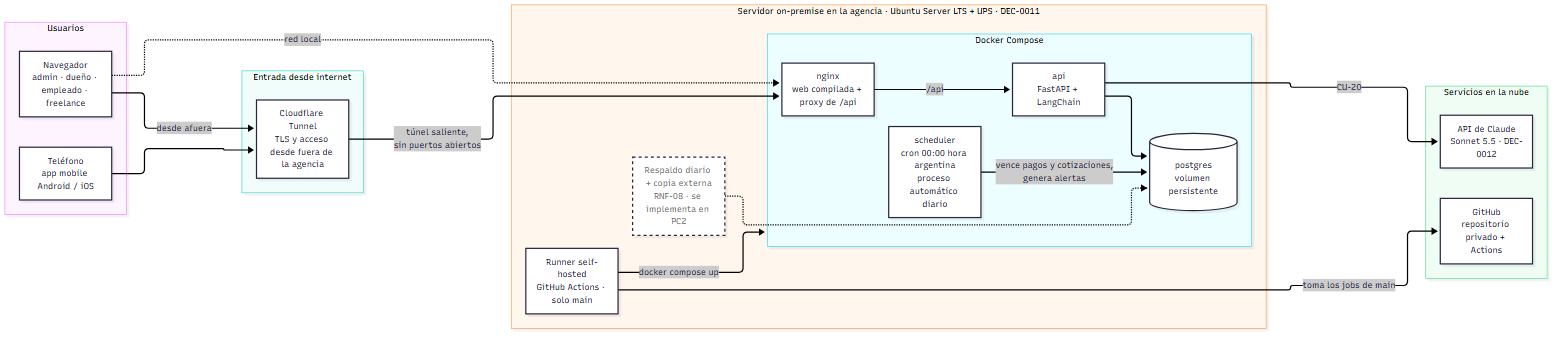
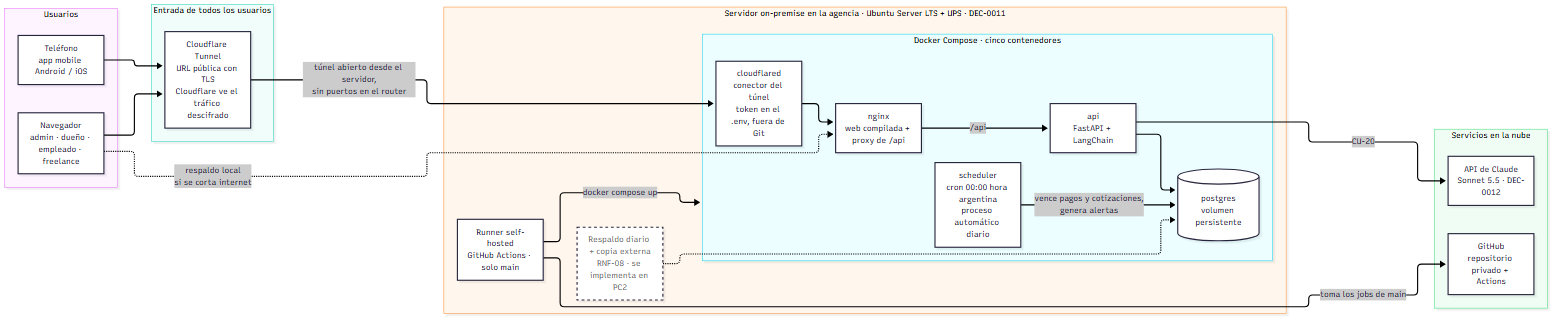
DEC-0011 y ARQ: contenedor cloudflared y acceso de todos por el túnel; DGM-ER: auditoría nullable

diff --git a/05-Diseño/Arquitectura/ARQ — Vista general.md b/05-Diseño/Arquitectura/ARQ — Vista general.md
@@ -24,13 +24,13 @@ Rumbo es una aplicación **cliente-servidor**: dos clientes (web y mobile) habla
 | **Base de datos** | PostgreSQL, con SQLAlchemy 2.0 async y Alembic | Persistencia de las 13 entidades del [[DGM-ER]]. |
 | **Proceso automático** | Contenedor con cron | Todos los días a las 00:00 vence pagos y cotizaciones y genera alertas, usando los mismos servicios que la API. |
 | **IA del producto** | LangChain + Claude Sonnet 5.5 | Solo para los borradores de contenido de CU-20 ([[DEC-0012 Modelo de IA del producto]]). |
-| **Servidor** | Ubuntu Server LTS + Docker Compose + UPS | Aloja la API, la base, el proceso automático y nginx; se accede desde afuera por Cloudflare Tunnel. |
+| **Servidor** | Ubuntu Server LTS + Docker Compose + UPS | Aloja la API, la base, el proceso automático, nginx y el conector `cloudflared`; todos los usuarios entran por Cloudflare Tunnel. |
 | **Calidad y despliegue** | GitHub Actions + runner self-hosted + Dependabot | Lint, tipos, pruebas y seguridad en cada push; despliega solo si el pipeline pasa en `main`. |
 
 La arquitectura se describe en tres vistas: **despliegue** (dónde corre cada pieza), **componentes del monorepo** (cómo se organiza el código) y **vista lógica del backend** (las tres capas de la API y sus módulos).
 
 ## Vista de despliegue
-Dónde corre cada pieza en producción, según [[DEC-0011 Infraestructura de despliegue on-premise]]. Todo el backend vive en un servidor dentro de la agencia; desde afuera se entra solo por Cloudflare Tunnel, que abre la conexión desde el servidor hacia la nube, así que el router no expone ningún puerto. La caja punteada es lo que se difiere a PC2.
+Dónde corre cada pieza en producción, según [[DEC-0011 Infraestructura de despliegue on-premise]]. Todo el backend vive en un servidor dentro de la agencia. **Todos los usuarios**, también los de la red local, entran por la URL de Cloudflare Tunnel: el contenedor `cloudflared` abre la conexión desde el servidor hacia la nube, así que el router no expone ningún puerto. La flecha punteada desde el navegador es la entrada local directa, que queda solo como respaldo si se corta internet; la caja punteada es lo que se difiere a PC2.
 
 ```mermaid
 %%{init: {"flowchart": {"defaultRenderer": "elk"}} }%%
@@ -40,12 +40,13 @@ flowchart LR
       Tel["Teléfono<br/>app mobile Android / iOS"]
     end
 
-    subgraph Entrada["Entrada desde internet"]
-      CF["Cloudflare Tunnel<br/>TLS y acceso desde fuera de la agencia"]
+    subgraph Entrada["Entrada de todos los usuarios"]
+      CF["Cloudflare Tunnel<br/>URL pública con TLS<br/>Cloudflare ve el tráfico descifrado"]
     end
 
     subgraph Agencia["Servidor on-premise en la agencia · Ubuntu Server LTS + UPS · DEC-0011"]
-      subgraph Compose["Docker Compose"]
+      subgraph Compose["Docker Compose · cinco contenedores"]
+        Cfd["cloudflared<br/>conector del túnel<br/>token en el .env, fuera de Git"]
         Nginx["nginx<br/>web compilada + proxy de /api"]
         API["api<br/>FastAPI + LangChain"]
         DB[("postgres<br/>volumen persistente")]
@@ -60,10 +61,11 @@ flowchart LR
       GH["GitHub<br/>repositorio privado + Actions"]
     end
 
-    Nav -->|"desde afuera"| CF
+    Nav --> CF
     Tel --> CF
-    Nav -. "red local" .-> Nginx
-    CF -->|"túnel saliente,<br/>sin puertos abiertos"| Nginx
+    Nav -. "respaldo local<br/>si se corta internet" .-> Nginx
+    CF -->|"túnel abierto desde el servidor,<br/>sin puertos en el router"| Cfd
+    Cfd --> Nginx
     Nginx -->|"/api"| API
     API --> DB
     Sched -->|"vence pagos y cotizaciones,<br/>genera alertas"| DB
@@ -76,11 +78,12 @@ flowchart LR
     class Backup pendiente
 ```
 
-- **nginx** sirve la web de React ya compilada y deriva `/api` al backend. Es el único punto de entrada, tanto desde la red local como desde el túnel.
+- **cloudflared** es el conector de Cloudflare Tunnel: abre la conexión saliente hacia Cloudflare y le entrega el tráfico a `nginx`. Su token vive en el `.env` del servidor y nunca se guarda en Git.
+- **nginx** sirve la web de React ya compilada y deriva `/api` al backend. Recibe el tráfico del túnel, que es la entrada normal de **todos** los usuarios; la entrada directa desde la red local queda solo como respaldo si se corta internet.
 - **scheduler** ejecuta a las 00:00 el mismo código del backend como comando (`python -m rumbo.presentacion.jobs.diario`): vence pagos y cotizaciones y genera las alertas `viaje` y `recontacto` ([[DGM-ACT — Proceso automático diario]]). Es idempotente, así que correrlo dos veces no duplica nada.
 - **Runner self-hosted:** cuando el pipeline de calidad pasa en `main`, reconstruye y levanta los contenedores. Solo toma jobs de `main` del repositorio privado.
 - **App mobile:** EAS Build genera los binarios y se distribuyen de forma interna, sin tiendas; la app habla con la misma API por el túnel.
-- **Riesgos aceptados:** un corte de luz más largo que la autonomía de la UPS, o de internet en el local, deja el sistema inaccesible desde afuera (RNF-13).
+- **Riesgos aceptados:** un corte de luz más largo que la autonomía de la UPS, o de internet en el local, deja el sistema inaccesible desde afuera (RNF-13). Además, Cloudflare termina el TLS, así que ve el tráfico descifrado que pasa por el túnel.
 
 ## Vista de componentes del monorepo
 Cómo se organiza el código y qué genera cada parte, según [[DEC-0001 Stack tecnológico]].
@@ -283,4 +286,3 @@ Los once módulos (`clientes`, `oportunidades`, `viajes`, `economia`, `alertas`,
 ## Pendiente
 - **G1 · Modelo C4** (contexto, contenedores y componentes), que reutiliza estas vistas.
 - **A6 · Ratificar esta nota** en el cierre del día 2 y pasarla a `formalizado`.
-- **Acceso por Cloudflare Tunnel:** falta confirmar tres ajustes en DEC-0011 y en la vista de despliegue: el contenedor `cloudflared`, el riesgo de que Cloudflare vea el tráfico descifrado y que el acceso desde la red local también pase por el túnel.

diff --git a/05-Diseño/Decisiones/DEC-0011 Infraestructura de despliegue on-premise.md b/05-Diseño/Decisiones/DEC-0011 Infraestructura de despliegue on-premise.md
@@ -18,12 +18,14 @@ tags:: #tipo/decision #estado/formalizado #pc/pc1
 
 ## Decisión
 - **Servidor on-premise en la agencia:** una mini PC dedicada con **Ubuntu Server LTS** y una **UPS** para absorber cortes de luz breves.
-- **Ejecución con Docker Compose**, con cuatro servicios:
+- **Ejecución con Docker Compose**, con cinco servicios:
   - `nginx`: sirve la web compilada y deriva `/api` al backend;
   - `api`: FastAPI;
   - `postgres`: PostgreSQL con un volumen persistente;
-  - `scheduler`: un contenedor con **cron** que a las **00:00**, en la zona horaria `America/Argentina/Buenos_Aires`, ejecuta el proceso diario como comando del backend (por ejemplo `python -m rumbo.jobs.diario`). El proceso es **idempotente**: si corre dos veces el mismo día, no duplica alertas ni vencimientos.
-- **Acceso desde fuera de la agencia** (freelance y app mobile, RNF-14): **Cloudflare Tunnel** delante de Nginx. No abre puertos en el router, trae TLS y no depende de la IP pública del local. Su configuración **no es prioritaria** en esta etapa.
+  - `scheduler`: un contenedor con **cron** que a las **00:00**, en la zona horaria `America/Argentina/Buenos_Aires`, ejecuta el proceso diario como comando del backend (`python -m rumbo.presentacion.jobs.diario`). El proceso es **idempotente**: si corre dos veces el mismo día, no duplica alertas ni vencimientos;
+  - `cloudflared`: el conector de **Cloudflare Tunnel**. Abre la conexión saliente hacia Cloudflare y le entrega el tráfico a `nginx`. Su token vive en el `.env` del servidor y **nunca se guarda en Git**.
+- **Acceso de los usuarios por Cloudflare Tunnel** (RNF-14): **todos** los usuarios, también los que están en la red local de la agencia, entran por la URL pública del túnel. No abre puertos en el router, trae TLS y no depende de la IP pública del local. La **entrada local directa** a `nginx` queda solo como **respaldo** si se corta internet en la agencia. Su configuración **no es prioritaria** en esta etapa.
+- **Riesgo aceptado del túnel:** Cloudflare termina el TLS, así que **ve el tráfico descifrado** que pasa por el túnel. El equipo lo acepta a cambio de no exponer la red de la agencia.
 - **Despliegue:** un **runner self-hosted de GitHub Actions** instalado en el servidor. Cuando el pipeline de calidad de DEC-0001 pasa en `main`, ejecuta `docker compose up`. Condiciones: el repositorio de código es **privado** y el runner **solo ejecuta jobs de `main`**, porque un runner self-hosted en un repositorio público ejecutaría código de cualquier pull request.
 - **Los requisitos no cambian.** RNF-08 y RNF-13 expresan necesidades del negocio y se mantienen tal como están. Lo que se difiere es la implementación:
   - **Respaldo (RNF-08):** no es prioritario para el PC1; el mecanismo (volcado diario y copia externa) se define y se implementa en PC2.
@@ -45,10 +47,11 @@ El equipo prioriza no tener costo mensual y mantener el control del entorno, y a
 ## Impacto
 - [[ARQ — Vista general]]: la vista de despliegue tiene que reemplazar la caja «a definir» y sumar el `scheduler` (paso A2 del plan).
 - [[DEC-0001 Stack tecnológico]]: se cierra su pendiente de infraestructura; Nginx y el runner self-hosted quedan confirmados.
-- Riesgos aceptados: cortes de luz o de internet en la agencia; respaldo sin implementar hasta PC2.
+- Riesgos aceptados: cortes de luz o de internet en la agencia; respaldo sin implementar hasta PC2; Cloudflare ve el tráfico descifrado del túnel.
 
 ## Decisores y fecha
 - Decisores: Francisco, Nahuel y Paloma — **aprobada el 29/09/26**.
+- Ajustes del túnel (contenedor `cloudflared`, acceso de todos los usuarios por el túnel y riesgo del TLS) — **aprobados el 29/09/26**.
 
 ## Vínculo con el código (a partir de PC2)
 - Rama: `-` · Commits: `-`

diff --git a/03-Dominio/Diagramas/DGM-ER.md b/03-Dominio/Diagramas/DGM-ER.md
@@ -206,7 +206,7 @@ erDiagram
 - **`VIAJE ||--|{ PAGO` — todo viaje tiene al menos un pago** (resuelto 21/09, ver [[DGM — Diagrama de clases]]). [[CU-07 Confirmar reserva]] es el único CU que crea un `VIAJE` e incluye (`<<include>>`) [[CU-11 Definir plan de cuotas]], y aun sin cuotas se crea un `PAGO` de tipo `saldo` (A2). ⚠ Una FK no puede exigir "al menos una fila hija": la obligatoriedad la hace cumplir la **lógica de aplicación**, no el motor.
 - **`ALERTA` tiene cuatro orígenes posibles y excluyentes** (resuelto 21/09): `viaje_id`, `pago_id`, `oportunidad_id` y `cliente_id`, **las cuatro nullable**, con un **CHECK de que a lo sumo una esté cargada** — ninguna cuando es una alerta `manual` suelta ([[CU-28 Crear recordatorio manual]]). Se descartó el origen polimórfico (`origen_tipo` + `origen_id`) porque pierde la integridad referencial; con 4 orígenes cerrados, la tabla más ancha es un costo menor.
 - **`USUARIO` aparece cinco veces** (`responsable` de viaje y de oportunidad, `vendedor`, `asesor_asignado`, `propietario` de alerta): es lo que implementa el modelo de visibilidad *lectura global + propiedad* de [[DEC-0005 Autenticación y modelo de roles]] y la restricción del rol `freelance` de [[DEC-0008 Autenticación propia y rol de vendedor freelance]].
-- **Auditoría:** [[DEC-0008 Autenticación propia y rol de vendedor freelance]] exige registrar **autor y fecha** de las acciones. **Decidido en la sync del 29/09:** `created_by` / `updated_by` (FK a `USUARIO`) y `created_at` / `updated_at` van en **todas las tablas de entidad**, operativas y catálogos (las 13 entidades; la tabla asociativa `VIAJE_HOTEL` hereda la auditoría de `VIAJE`). No se dibujan en el diagrama para no multiplicar las líneas hacia `USUARIO`.
+- **Auditoría:** [[DEC-0008 Autenticación propia y rol de vendedor freelance]] exige registrar **autor y fecha** de las acciones. **Decidido en la sync del 29/09:** `created_by` / `updated_by` (FK a `USUARIO`) y `created_at` / `updated_at` van en **todas las tablas de entidad**, operativas y catálogos (las 13 entidades; la tabla asociativa `VIAJE_HOTEL` hereda la auditoría de `VIAJE`). No se dibujan en el diagrama para no multiplicar las líneas hacia `USUARIO`. **`created_by` y `updated_by` son nullable** (aprobado el 29/09): lo que hace el proceso automático diario los deja **vacíos**, y un autor vacío se lee como «lo hizo el sistema». `created_at` y `updated_at` siempre se cargan.
 - `VIAJE.destino_id` y `HOTEL.destino_id` son FK a `DESTINO` (antes texto libre): ver [[DEC-0006 Destino como entidad de catálogo]]. `OPORTUNIDAD.destino_consultado` sigue siendo **texto libre** y se normaliza recién al derivar en `VIAJE`.
 - `VIAJE` suma `operador_id`, `vendedor_id`, `moneda`, `costo`, `ganancia`, `margen` y `comision_vendedor` — ver [[DEC-0007 Modelo económico — ganancia, margen y comisión de vendedor]] y [[DEC-0009 Operador-Proveedor como entidad de catálogo]] (sync 17/09). `ganancia` y `margen` son **calculados**: se pueden materializar como columnas generadas o resolver en la vista.
 - `COTIZACION.items` se modela como **`jsonb`**, no como tabla propia: decidido el 21/09 no promoverlo a entidad ([[DGM — Diagrama de clases]], punto 4). Si más adelante hacen falta reportes por concepto, se reabre.

diff --git a/00-Inicio/Estado del proyecto.md b/00-Inicio/Estado del proyecto.md
@@ -66,8 +66,8 @@ Los tres tomamos **los tres roles** (Coordinador de vault · Guardián del domin
 - ✅ **E3** → foco en los **agentes usados para planificar y desarrollar** (Claude Code, subagentes, MCP de Figma), sin catálogo de skills. El diagrama del ciclo de trabajo ya quedó en [[IA — Agentes del proyecto]]. **H2** queda separado y enlaza a E3.
 - ✅ **Exposición oral:** cada uno expone su frente; no se prepara un guion por persona. Duración desconocida.
 - ✅ **Arquitectura en tres capas + `core`** (A3, Nahuel): ver *Vista lógica del backend* en [[ARQ — Vista general]].
-- ✅ **Auditoría del proceso automático** (aprobado 29/09, Nahuel con el equipo): lo que hace `jobs.diario` queda con `created_by`/`updated_by` **vacíos** (= «lo hizo el sistema»), así que esas columnas son **nullable** en el script SQL (F2). ⏳ Falta anotarlo en [[DGM-ER]] junto a la nota de auditoría.
-- ✅ **Ajustes del túnel** (aprobado 29/09): ⏳ falta aplicarlos en [[DEC-0011 Infraestructura de despliegue on-premise]] y en la vista de despliegue de ARQ: (1) quinto contenedor `cloudflared` en el Compose, con el token en el `.env` del servidor; (2) riesgo aceptado: Cloudflare termina el TLS y ve el tráfico descifrado; (3) **todos** los usuarios, también desde la red local, entran por la URL del túnel (la entrada local directa queda solo como respaldo si se cae internet).
+- ✅ **Auditoría del proceso automático** (aprobado 29/09, Nahuel con el equipo): lo que hace `jobs.diario` queda con `created_by`/`updated_by` **vacíos** (= «lo hizo el sistema»), así que esas columnas son **nullable** en el script SQL (F2). ✅ Anotado en [[DGM-ER]] junto a la nota de auditoría.
+- ✅ **Ajustes del túnel** (aprobado 29/09): ✅ aplicados en [[DEC-0011 Infraestructura de despliegue on-premise]] y en la vista de despliegue de ARQ (PNG regenerado): (1) quinto contenedor `cloudflared` en el Compose, con el token en el `.env` del servidor; (2) riesgo aceptado: Cloudflare termina el TLS y ve el tráfico descifrado; (3) **todos** los usuarios, también desde la red local, entran por la URL del túnel (la entrada local directa queda solo como respaldo si se cae internet).
 
 ### Día 1 — mié 30/09: construir las bases
 - **Nahuel:** A2 (vista de despliegue con DEC-0011) → A3 (vista lógica del backend) → **F2** script SQL validado contra un PostgreSQL local.

diff --git a/00-Inicio/Bitácora de sesiones.md b/00-Inicio/Bitácora de sesiones.md
@@ -30,6 +30,10 @@ Es **obligatorio** nombrar a la persona que hizo la sesión.
 - **Pendiente:** …
 ```
 
+## 29/09/26 — Nahuel (Claude Opus 5.5) — ajustes del túnel y auditoría nullable aplicados
+- **Hecho:** [[DEC-0011 Infraestructura de despliegue on-premise]] suma el quinto contenedor `cloudflared` (token en el `.env` del servidor, fuera de Git), el acceso de **todos** los usuarios por la URL del túnel (la entrada local directa queda como respaldo) y el riesgo aceptado de que Cloudflare vea el tráfico descifrado. La vista de despliegue de [[ARQ — Vista general]] (diagrama, viñetas, resumen y *Pendiente*) quedó igual y su PNG se regeneró. En [[DGM-ER]] se anotó que `created_by`/`updated_by` son nullable (vacío = proceso automático).
+- **Pendiente:** F2, F1 y G1.
+
 ## 29/09/26 — Nahuel (Claude Opus 5.5) — aprobaciones y traspaso
 - **Hecho:** Nahuel aprobó (1) `created_by`/`updated_by` vacíos para las acciones del proceso automático y (2) los tres ajustes del túnel en DEC-0011. Quedaron registrados en *Decidido en el día 0* de [[Estado del proyecto]], todavía sin aplicar.
 - **Pendiente (siguiente sesión):** aplicar los ajustes del túnel en DEC-0011 y ARQ, anotar la nulabilidad en [[DGM-ER]] y seguir con F2 (script SQL); después F1 y G1.
